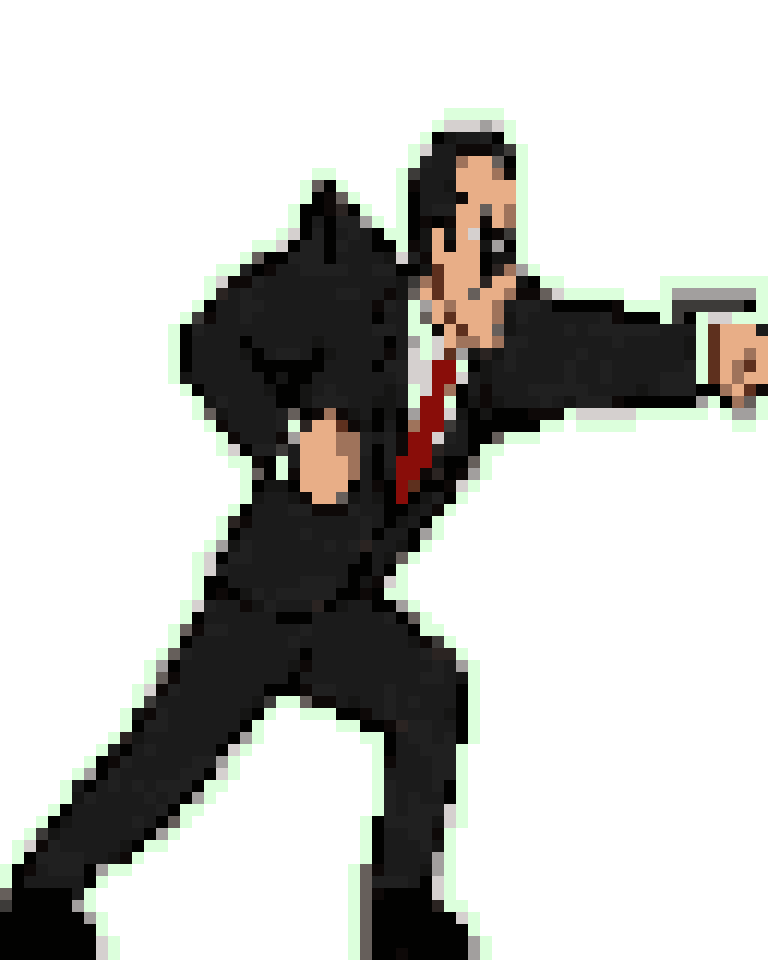
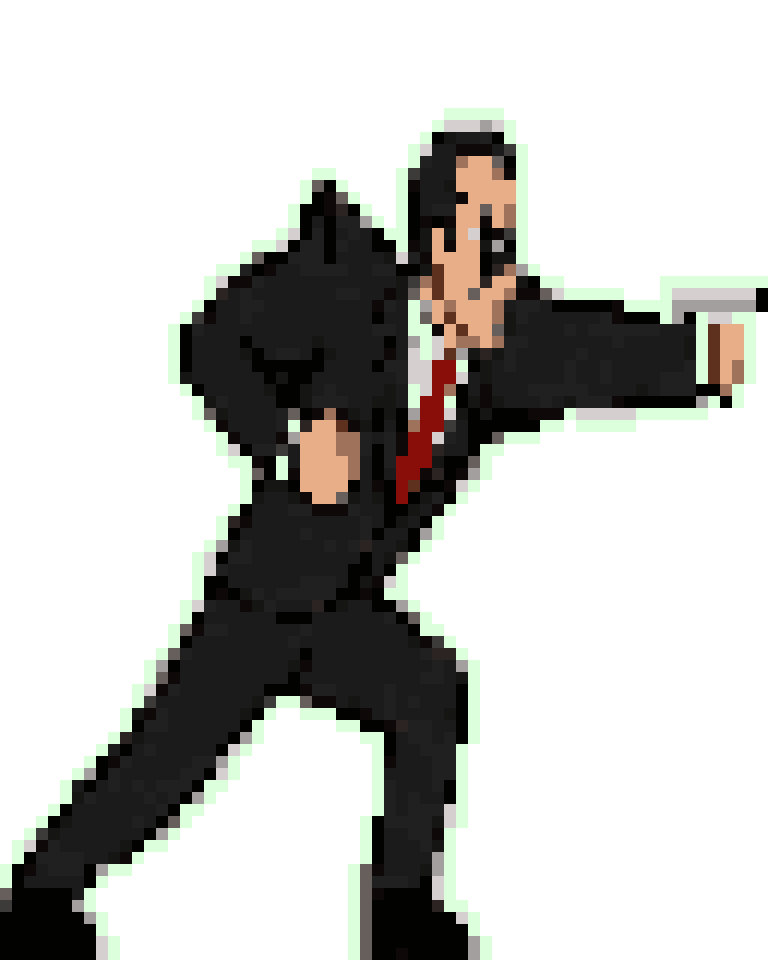
Pistola del Jefe v2: contraste real + balas desde la boca del arma
La v1 (gris oscuro pegado a la manga) no se leía como pistola. Ahora:
- Corredera blanca (#d5d0cf) con panza gris claro y boca oscura, y el
  puño acortado 2px para que el cañón sobresalga por delante de la mano
- Fogonazo blanco en la boca del arma en cada disparo (Jefe y Neo)
- Las balas nacen en la boca del cañón (antes salían del centro del
  cuerpo); la dirección se calcula desde el centro del tirador para no
  invertirse a quemarropa

Verificado jugando: pistola y fogonazo visibles en cada tiro del Jefe,
nivel completo con los tiros de Neo conectando desde la escopeta.

Changed region(s): [[0.875, 0.2812, 1.0, 0.4688]]

diff --git a/src/game/scenes/level.ts b/src/game/scenes/level.ts
@@ -263,7 +263,14 @@ export function registrarLevel(k: KAPLAYCtx, estado: () => GameState): void {
       });
     };
 
-    /** Bala del Jefe: sale de su cuerpo apuntada a donde está Neo en ese momento. */
+    /** Fogonazo en la boca del arma: vende el disparo mejor que la bala sola. */
+    const flashDisparo = (x: number, y: number) => {
+      const chispa = k.add([k.rect(14, 8), k.pos(x - 7, y - 4), k.color(...BLANCO), k.opacity(0.9), k.z(4)]);
+      k.wait(0.07, () => k.destroy(chispa));
+    };
+
+    /** Bala del Jefe: nace en la boca de su pistola (el puño extendido de la
+     * pose de ataque — factor 1.5 de ancho, altura del cañón), apuntada a Neo. */
     const dispararBalaJefe = (jefe: GameObj, combate: Combate) => {
       orientarHacia(jefe, player.pos.x + ANCHO_NEO / 2);
       fijarPose(jefe, "ataque");
@@ -271,9 +278,17 @@ export function registrarLevel(k: KAPLAYCtx, estado: () => GameState): void {
         if (jefe.exists() && !muriendo.has(jefe)) fijarPose(jefe, null);
       });
       sfx.disparo();
-      const origen = k.vec2(jefe.pos.x + combate.ancho / 2, jefe.pos.y + combate.alto * 0.35);
       const destino = k.vec2(player.pos.x + ANCHO_NEO / 2, player.pos.y + ALTO_NEO / 2);
-      const direccion = destino.sub(origen).unit();
+      const centro = k.vec2(jefe.pos.x + combate.ancho / 2, jefe.pos.y + combate.alto * 0.43);
+      const haciaIzquierda = destino.x < centro.x;
+      const origen = k.vec2(
+        haciaIzquierda ? jefe.pos.x - combate.ancho * 0.5 : jefe.pos.x + combate.ancho * 1.5,
+        centro.y
+      );
+      // Dirección desde el centro del tirador: desde la boca podría invertirse
+      // a quemarropa (la boca queda más allá del objetivo).
+      const direccion = destino.sub(centro).unit();
+      flashDisparo(origen.x, origen.y);
       k.add([
         k.rect(14, 6),
         k.pos(origen),
@@ -412,12 +427,22 @@ export function registrarLevel(k: KAPLAYCtx, estado: () => GameState): void {
       if (enemigoAturdido(combate.fase)) aturdir(agente, combate);
     };
 
+    /** Bala de Neo: nace en la boca de la escopeta (pose "disparo", factor 1.8
+     * de ancho, altura del cañón), apuntada al centro del Jefe. */
     const dispararBalaNeo = (jefe: GameObj, combate: Combate) => {
       sfx.disparo();
-      const origen = k.vec2(player.pos.x + ANCHO_NEO / 2, player.pos.y + ALTO_NEO * 0.35);
       const destino = k.vec2(jefe.pos.x + combate.ancho / 2, jefe.pos.y + combate.alto / 2);
-      const direccion = destino.sub(origen).unit();
+      const centro = k.vec2(player.pos.x + ANCHO_NEO / 2, player.pos.y + ALTO_NEO * 0.32);
+      const haciaIzquierda = destino.x < centro.x;
+      const origen = k.vec2(
+        haciaIzquierda ? player.pos.x - ANCHO_NEO * 0.8 : player.pos.x + ANCHO_NEO * 1.8,
+        centro.y
+      );
+      // Igual que el Jefe: dirección desde el centro para no invertir el tiro
+      // a quemarropa; la bala y el fogonazo salen de la boca de la escopeta.
+      const direccion = destino.sub(centro).unit();
       orientarHacia(player, destino.x);
+      flashDisparo(origen.x, origen.y);
       k.add([
         k.rect(14, 6),
         k.pos(origen),